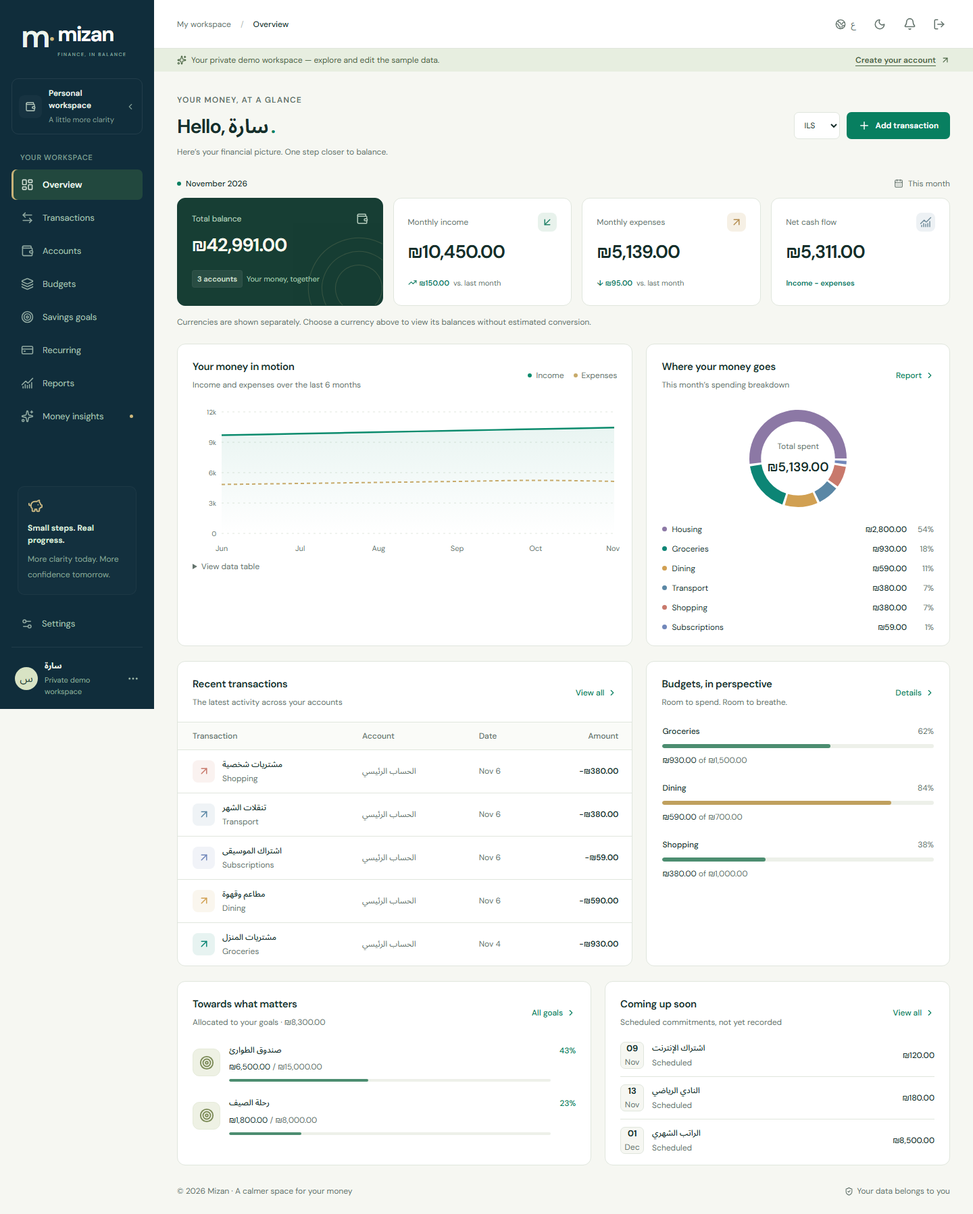
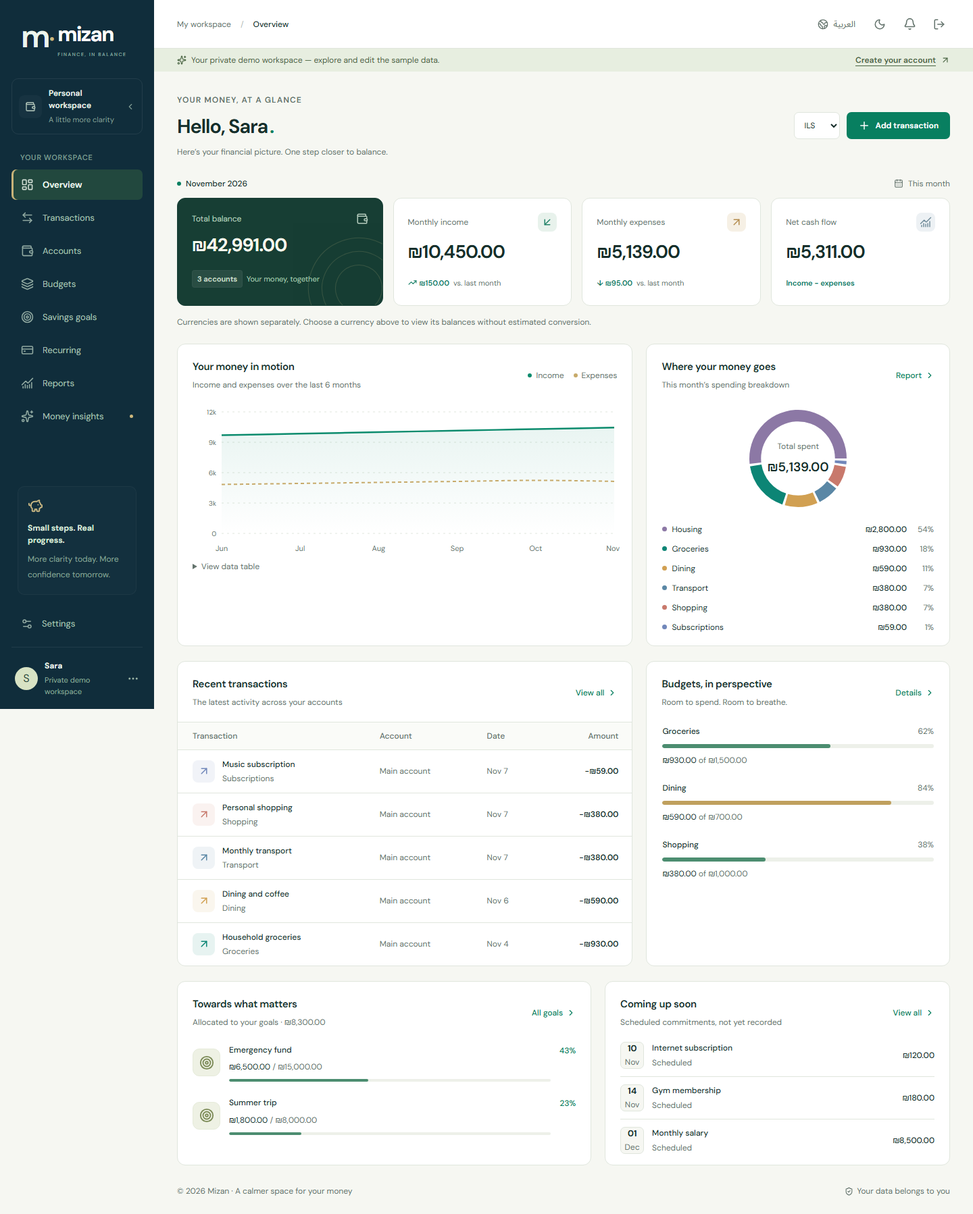
feat: polish English navigation and localize demo workspaces

diff --git a/src/components/finance-app.tsx b/src/components/finance-app.tsx
@@ -6,7 +6,7 @@ import { useRouter } from "next/navigation";
 import { useCallback, useEffect, useMemo, useRef, useState } from "react";
 import { ArrowDownLeft, ArrowLeftRight, ArrowUpRight, Bell, CalendarDays, Check, ChevronLeft, ChevronRight, CircleHelp, Download, Ellipsis, Globe2, LayoutDashboard, LogOut, Menu, Moon, MoreHorizontal, Plus, Search, Settings2, ShieldCheck, Sparkles, Sun, Target, Trash2, TrendingUp, Wallet, X, CreditCard, ChartNoAxesCombined, FileText, Layers3, Pencil, Play, Pause, Upload, CheckCircle2, AlertCircle, PiggyBank } from "lucide-react";
 import type { Currency, Locale, Snapshot, Transaction } from "@/lib/contracts";
-import { usePreferences } from "@/components/providers";
+import { hasStoredLocale, usePreferences } from "@/components/providers";
 import { categoryLabel, dateLabel, major, minor, money, monthlyRows, sum, thisMonth, today } from "./finance/utils";
 import "./finance.css";
 
@@ -59,8 +59,9 @@ export default function FinanceApp({ section = "dashboard" }: { section?: string
   const acceptWorkspace = useCallback((workspace: Snapshot | null) => {
     if (!workspace) { router.replace("/login"); return; }
     if (!workspace.profile.onboarded) { router.replace("/onboarding"); return; }
+    if (!hasStoredLocale()) setLocale(workspace.profile.locale);
     setData(workspace); setCurrency(workspace.profile.currency); setError("");
-  }, [router]);
+  }, [router, setLocale]);
   const refresh = useCallback(() => loadWorkspace().then(acceptWorkspace).catch((err: unknown) => {
     setError(err instanceof Error ? err.message : String(err));
   }), [acceptWorkspace]);
@@ -121,7 +122,7 @@ export default function FinanceApp({ section = "dashboard" }: { section?: string
       <div className="sidebar-bottom"><div className="balance-note"><span className="balance-note-icon"><PiggyBank size={23} /></span><strong>{t("خطوات صغيرة. فرق كبير.", "Small steps. Real progress.")}</strong><p>{t("نظرة أوضح اليوم، وقرارات أهدأ غدًا.", "More clarity today. More confidence tomorrow.")}</p></div><Link data-testid="nav-settings" href="/app/settings" onClick={() => setMenu(false)} className={section === "settings" ? "nav-link active" : "nav-link"}><Settings2 size={18} />{t("الإعدادات", "Settings")}</Link><button className="nav-link sidebar-signout" disabled={busy} onClick={() => void logout()}><LogOut size={18} />{t("تسجيل الخروج", "Sign out")}</button><button className="profile-switch" onClick={() => router.push("/app/settings")}><span className="avatar">{data?.profile.name?.slice(0, 1) || "م"}</span><span><strong>{data?.profile.name || t("حسابي", "My account")}</strong><small>{data?.demo ? t("مساحة تجريبية خاصة", "Private demo workspace") : t("الحساب الشخصي", "Personal account")}</small></span><MoreHorizontal size={18} /></button></div>
     </aside>
     <div className="finance-main">
-      <header className="app-topbar"><div className="breadcrumb"><button className="icon-button mobile-menu" onClick={() => setMenu(true)} aria-label={t("فتح القائمة", "Open menu")}><Menu size={21} /></button><span>{t("مساحتي المالية", "My workspace")}</span><span className="crumb-slash">/</span><strong>{title}</strong></div><div className="topbar-actions"><button className="language-toggle" onClick={() => setLocale(locale === "ar" ? "en" : "ar")} aria-label={t("Switch to English", "التبديل إلى العربية")} data-testid="language-toggle"><Globe2 size={16} /><span>{locale === "ar" ? "EN" : "ع"}</span></button><button className="icon-button" onClick={() => setTheme(theme === "light" ? "dark" : "light")} aria-label={t("تغيير المظهر", "Toggle theme")} data-testid="theme-toggle">{theme === "light" ? <Moon size={18} /> : <Sun size={18} />}</button><Link className="notification-button icon-button" href="/app/recurring" aria-label={t("الالتزامات القادمة", "Upcoming commitments")}><Bell size={19} />{data?.recurring.some((r) => r.active && r.nextDate <= today(ctx?.data.profile.timezone)) && <i />}</Link><button className="icon-button" onClick={() => void logout()} aria-label={t("تسجيل الخروج", "Sign out")}><LogOut size={18} /></button></div></header>
+      <header className="app-topbar"><div className="breadcrumb"><button className="icon-button mobile-menu" onClick={() => setMenu(true)} aria-label={t("فتح القائمة", "Open menu")}><Menu size={21} /></button><span>{t("مساحتي المالية", "My workspace")}</span><span className="crumb-slash">/</span><strong>{title}</strong></div><div className="topbar-actions"><button className="language-toggle" onClick={() => setLocale(locale === "ar" ? "en" : "ar")} aria-label={t("Switch to English", "التبديل إلى العربية")} data-testid="language-toggle"><Globe2 size={16} /><span>{locale === "ar" ? "English" : "العربية"}</span></button><button className="icon-button" onClick={() => setTheme(theme === "light" ? "dark" : "light")} aria-label={t("تغيير المظهر", "Toggle theme")} data-testid="theme-toggle">{theme === "light" ? <Moon size={18} /> : <Sun size={18} />}</button><Link className="notification-button icon-button" href="/app/recurring" aria-label={t("الالتزامات القادمة", "Upcoming commitments")}><Bell size={19} />{data?.recurring.some((r) => r.active && r.nextDate <= today(ctx?.data.profile.timezone)) && <i />}</Link><button className="icon-button" onClick={() => void logout()} aria-label={t("تسجيل الخروج", "Sign out")}><LogOut size={18} /></button></div></header>
       {data?.demo && <div className="demo-banner"><span><Sparkles size={14} />{t("أنت في مساحة تجريبية خاصة — بيانات توضيحية يمكنك تعديلها.", "Your private demo workspace — explore and edit the sample data.")}</span><Link href="/register">{t("أنشئ حسابك", "Create your account")} <ArrowUpRight size={14} /></Link></div>}
       <main id="main-content" className="app-content">
         {error && <div className="feedback error" role="alert"><AlertCircle size={18} /><span>{error}</span><button className="text-button" onClick={() => void refresh()}>{t("أعد المحاولة", "Try again")}</button></div>}
@@ -208,7 +209,7 @@ function Transactions({ ctx }: { ctx: Ctx }) {
   const pages = Math.max(1, Math.ceil(rows.length / 10)); const currentPage = Math.min(page, pages);
   function filter(setter: (v: string) => void, value: string) { setter(value); setPage(1); }
   return <><div className="section-toolbar"><div className="segmented"><button className={!kind ? "selected" : ""} onClick={() => filter(setKind, "")}>{ctx.t("كل المعاملات", "All transactions")}</button><button className={kind === "income" ? "selected" : ""} onClick={() => filter(setKind, "income")}>{ctx.t("الدخل", "Income")}</button><button className={kind === "expense" ? "selected" : ""} onClick={() => filter(setKind, "expense")}>{ctx.t("المصروفات", "Expenses")}</button></div><div className="toolbar-buttons"><button className="btn btn-secondary" onClick={() => setImportOpen(!importOpen)}><Upload size={16} />{ctx.t("استيراد CSV", "Import CSV")}</button><a className="btn btn-secondary" href="/api/export?format=csv"><Download size={16} />{ctx.t("تصدير CSV", "Export CSV")}</a></div></div>{importOpen && <ImportPanel data={ctx.data} locale={ctx.locale} t={ctx.t} mutate={ctx.mutate} close={() => setImportOpen(false)} />}
-  <section className="panel"><div className="transaction-filters"><label className="search-field"><Search size={17} /><input aria-label={ctx.t("البحث في المعاملات", "Search transactions")} placeholder={ctx.t("ابحث عن معاملة…", "Search transactions…")} value={query} onChange={(e) => filter(setQuery, e.target.value)} /></label><select aria-label={ctx.t("تصفية الحساب", "Filter account")} value={account} onChange={(e) => filter(setAccount, e.target.value)}><option value="">{ctx.t("جميع الحسابات", "All accounts")}</option>{accountOptions(ctx.data).map((o) => <option key={o.value} value={o.value}>{o.label}</option>)}</select><select aria-label={ctx.t("تصفية التصنيف", "Filter category")} value={category} onChange={(e) => filter(setCategory, e.target.value)}><option value="">{ctx.t("كل التصنيفات", "All categories")}</option>{categoryOptions(ctx.data, ctx.locale).map((o) => <option key={o.value} value={o.value}>{o.label}</option>)}</select><select aria-label={ctx.t("ترتيب", "Sort")} value={sort} onChange={(e) => filter(setSort, e.target.value)}><option value="date-desc">{ctx.t("الأحدث أولًا", "Newest first")}</option><option value="date-asc">{ctx.t("الأقدم أولًا", "Oldest first")}</option><option value="amount-desc">{ctx.t("الأعلى مبلغًا", "Largest amount")}</option></select><label className="inline-date">{ctx.t("من", "From")}<input type="date" value={from} onChange={(e) => filter(setFrom, e.target.value)} /></label><label className="inline-date">{ctx.t("إلى", "To")}<input type="date" value={to} onChange={(e) => filter(setTo, e.target.value)} /></label></div>{rows.length ? <TransactionTable ctx={ctx} rows={rows.slice((currentPage - 1) * 10, currentPage * 10)} /> : <Empty ctx={ctx} text={ctx.t("لا توجد معاملات مطابقة", "No matching transactions")} />}<div className="pagination"><span>{rows.length} {ctx.t("معاملة", "transactions")}</span><div><button className="icon-button" disabled={currentPage === 1} onClick={() => setPage(currentPage - 1)} aria-label={ctx.t("الصفحة السابقة", "Previous page")}><ChevronRight size={17} /></button><span>{currentPage} / {pages}</span><button className="icon-button" disabled={currentPage === pages} onClick={() => setPage(currentPage + 1)} aria-label={ctx.t("الصفحة التالية", "Next page")}><ChevronLeft size={17} /></button></div></div></section></>;
+  <section className="panel"><div className="transaction-filters"><label className="search-field"><Search size={17} /><input aria-label={ctx.t("البحث في المعاملات", "Search transactions")} placeholder={ctx.t("ابحث عن معاملة…", "Search transactions…")} value={query} onChange={(e) => filter(setQuery, e.target.value)} /></label><select aria-label={ctx.t("تصفية الحساب", "Filter account")} value={account} onChange={(e) => filter(setAccount, e.target.value)}><option value="">{ctx.t("جميع الحسابات", "All accounts")}</option>{accountOptions(ctx.data).map((o) => <option key={o.value} value={o.value}>{o.label}</option>)}</select><select aria-label={ctx.t("تصفية التصنيف", "Filter category")} value={category} onChange={(e) => filter(setCategory, e.target.value)}><option value="">{ctx.t("كل التصنيفات", "All categories")}</option>{categoryOptions(ctx.data, ctx.locale).map((o) => <option key={o.value} value={o.value}>{o.label}</option>)}</select><select aria-label={ctx.t("ترتيب", "Sort")} value={sort} onChange={(e) => filter(setSort, e.target.value)}><option value="date-desc">{ctx.t("الأحدث أولًا", "Newest first")}</option><option value="date-asc">{ctx.t("الأقدم أولًا", "Oldest first")}</option><option value="amount-desc">{ctx.t("الأعلى مبلغًا", "Largest amount")}</option></select><label className="inline-date">{ctx.t("من", "From")}<input type="date" value={from} onChange={(e) => filter(setFrom, e.target.value)} /></label><label className="inline-date">{ctx.t("إلى", "To")}<input type="date" value={to} onChange={(e) => filter(setTo, e.target.value)} /></label></div>{rows.length ? <TransactionTable ctx={ctx} rows={rows.slice((currentPage - 1) * 10, currentPage * 10)} /> : <Empty ctx={ctx} text={ctx.t("لا توجد معاملات مطابقة", "No matching transactions")} />}<div className="pagination"><span>{rows.length} {ctx.t("معاملة", "transactions")}</span><div><button className="icon-button" disabled={currentPage === 1} onClick={() => setPage(currentPage - 1)} aria-label={ctx.t("الصفحة السابقة", "Previous page")}>{ctx.locale === "ar" ? <ChevronRight size={17} /> : <ChevronLeft size={17} />}</button><span>{currentPage} / {pages}</span><button className="icon-button" disabled={currentPage === pages} onClick={() => setPage(currentPage + 1)} aria-label={ctx.t("الصفحة التالية", "Next page")}>{ctx.locale === "ar" ? <ChevronLeft size={17} /> : <ChevronRight size={17} />}</button></div></div></section></>;
 }
 
 function Accounts({ ctx }: { ctx: Ctx }) {

diff --git a/src/server/demo.ts b/src/server/demo.ts
@@ -5,11 +5,15 @@ import * as s from "./schema";
 import { ensureProfile, deleteUserData } from "./finance-service";
 import { hashToken } from "./http";
 import { localDate } from "../lib/finance";
+import type { Locale } from "../lib/contracts";
 
 const iso = (date: Date) => date.toISOString().slice(0, 10);
-export async function seedDemoData(userId: string) {
-  await ensureProfile(userId);
+export async function seedDemoData(userId: string, locale: Locale = "ar") {
   const db = await getDb();
+  const [owner] = await db.select({ demo: s.user.demo }).from(s.user).where(eq(s.user.id, userId));
+  if (!owner?.demo) throw new Error("Sample data can only be created for a demo user.");
+  await ensureProfile(userId);
+  const text = (arabic: string, english: string) => locale === "en" ? english : arabic;
   await db.transaction(async tx => {
     await tx.select().from(s.user).where(eq(s.user.id, userId)).for("update");
     if ((await tx.select().from(s.financialAccounts).where(eq(s.financialAccounts.userId, userId))).length) return;
@@ -18,11 +22,12 @@ export async function seedDemoData(userId: string) {
     const year = now.getUTCFullYear(), month = now.getUTCMonth();
     const thisMonth = iso(now).slice(0, 7);
     const category = (slug: string) => `${userId}:${slug}`;
-    await tx.update(s.profiles).set({ onboarded: true }).where(eq(s.profiles.userId, userId));
+    await tx.update(s.user).set({ name: text("سارة", "Sara") }).where(eq(s.user.id, userId));
+    await tx.update(s.profiles).set({ onboarded: true, locale }).where(eq(s.profiles.userId, userId));
     await tx.insert(s.financialAccounts).values([
-      { id: bank, userId, name: "الحساب الرئيسي", type: "bank", currency: "ILS", openingBalance: 420000 },
-      { id: savings, userId, name: "حساب الادخار", type: "bank", currency: "ILS", openingBalance: 800000 },
-      { id: cash, userId, name: "محفظتي", type: "cash", currency: "ILS", openingBalance: 65000 },
+      { id: bank, userId, name: text("الحساب الرئيسي", "Main account"), type: "bank", currency: "ILS", openingBalance: 420000 },
+      { id: savings, userId, name: text("حساب الادخار", "Savings account"), type: "bank", currency: "ILS", openingBalance: 800000 },
+      { id: cash, userId, name: text("محفظتي", "My wallet"), type: "cash", currency: "ILS", openingBalance: 65000 },
       { id: usd, userId, name: "USD wallet", type: "wallet", currency: "USD", openingBalance: 125000 },
     ]);
     const transactions: (typeof s.transactions.$inferInsert)[] = [];
@@ -31,18 +36,18 @@ export async function seedDemoData(userId: string) {
       transactions.push({ id: randomUUID(), userId, accountId: bank, categoryId: category(slug), kind, amount, currency: "ILS", date, note });
     };
     for (let offset = -5; offset <= 0; offset++) {
-      add(offset, 1, "income", 850000, "salary", "الراتب الشهري");
-      add(offset, 3, "income", 120000 + (offset + 5) * 15000, "freelance", "مشروع تصميم");
-      add(offset, 2, "expense", 280000, "housing", "إيجار المنزل");
-      add(offset, 4, "expense", 78000 + (offset + 5) * 3000, "groceries", "مشتريات المنزل");
-      add(offset, 6, "expense", 34000 + (offset + 5) * 5000, "dining", "مطاعم وقهوة");
-      add(offset, 9, "expense", 38000, "transport", "تنقلات الشهر");
-      add(offset, 12, "expense", 5900, "subscriptions", "اشتراك الموسيقى");
-      add(offset, 17, "expense", 28000 + (offset + 5) * 2000, "shopping", "مشتريات شخصية");
-      if (offset < 0) add(offset, 21, "expense", 19500, "health", "عناية وصحة");
+      add(offset, 1, "income", 850000, "salary", text("الراتب الشهري", "Monthly salary"));
+      add(offset, 3, "income", 120000 + (offset + 5) * 15000, "freelance", text("مشروع تصميم", "Design project"));
+      add(offset, 2, "expense", 280000, "housing", text("إيجار المنزل", "Home rent"));
+      add(offset, 4, "expense", 78000 + (offset + 5) * 3000, "groceries", text("مشتريات المنزل", "Household groceries"));
+      add(offset, 6, "expense", 34000 + (offset + 5) * 5000, "dining", text("مطاعم وقهوة", "Dining and coffee"));
+      add(offset, 9, "expense", 38000, "transport", text("تنقلات الشهر", "Monthly transport"));
+      add(offset, 12, "expense", 5900, "subscriptions", text("اشتراك الموسيقى", "Music subscription"));
+      add(offset, 17, "expense", 28000 + (offset + 5) * 2000, "shopping", text("مشتريات شخصية", "Personal shopping"));
+      if (offset < 0) add(offset, 21, "expense", 19500, "health", text("عناية وصحة", "Health and care"));
     }
     await tx.insert(s.transactions).values(transactions);
-    await tx.insert(s.transfers).values({ id: randomUUID(), userId, fromAccountId: bank, toAccountId: savings, amount: 100000, date: iso(now), note: "إضافة إلى حساب الادخار" });
+    await tx.insert(s.transfers).values({ id: randomUUID(), userId, fromAccountId: bank, toAccountId: savings, amount: 100000, date: iso(now), note: text("إضافة إلى حساب الادخار", "Transfer to savings") });
     await tx.insert(s.budgets).values([
       { id: randomUUID(), userId, categoryId: category("groceries"), month: thisMonth, amount: 150000, currency: "ILS" },
       { id: randomUUID(), userId, categoryId: category("dining"), month: thisMonth, amount: 70000, currency: "ILS" },
@@ -51,8 +56,8 @@ export async function seedDemoData(userId: string) {
     ]);
     const emergency = randomUUID(), travel = randomUUID();
     await tx.insert(s.goals).values([
-      { id: emergency, userId, name: "صندوق الطوارئ", target: 1500000, currency: "ILS", deadline: iso(new Date(Date.UTC(year + 1, month, 1))) },
-      { id: travel, userId, name: "رحلة الصيف", target: 800000, currency: "ILS", deadline: iso(new Date(Date.UTC(year + 1, 5, 1))) },
+      { id: emergency, userId, name: text("صندوق الطوارئ", "Emergency fund"), target: 1500000, currency: "ILS", deadline: iso(new Date(Date.UTC(year + 1, month, 1))) },
+      { id: travel, userId, name: text("رحلة الصيف", "Summer trip"), target: 800000, currency: "ILS", deadline: iso(new Date(Date.UTC(year + 1, 5, 1))) },
     ]);
     await tx.insert(s.contributions).values([
       { id: randomUUID(), userId, goalId: emergency, accountId: savings, amount: 650000, date: iso(now) },
@@ -60,20 +65,20 @@ export async function seedDemoData(userId: string) {
     ]);
     const next = (days: number) => iso(new Date(now.getTime() + days * 86400000));
     await tx.insert(s.recurring).values([
-      { id: randomUUID(), userId, name: "اشتراك الإنترنت", accountId: bank, categoryId: category("subscriptions"), kind: "expense", amount: 12000, currency: "ILS", frequency: "monthly", nextDate: next(3), active: true },
-      { id: randomUUID(), userId, name: "النادي الرياضي", accountId: bank, categoryId: category("health"), kind: "expense", amount: 18000, currency: "ILS", frequency: "monthly", nextDate: next(7), active: true },
-      { id: randomUUID(), userId, name: "الراتب الشهري", accountId: bank, categoryId: category("salary"), kind: "income", amount: 850000, currency: "ILS", frequency: "monthly", nextDate: iso(new Date(Date.UTC(year, month + 1, 1))), active: true },
+      { id: randomUUID(), userId, name: text("اشتراك الإنترنت", "Internet subscription"), accountId: bank, categoryId: category("subscriptions"), kind: "expense", amount: 12000, currency: "ILS", frequency: "monthly", nextDate: next(3), active: true },
+      { id: randomUUID(), userId, name: text("النادي الرياضي", "Gym membership"), accountId: bank, categoryId: category("health"), kind: "expense", amount: 18000, currency: "ILS", frequency: "monthly", nextDate: next(7), active: true },
+      { id: randomUUID(), userId, name: text("الراتب الشهري", "Monthly salary"), accountId: bank, categoryId: category("salary"), kind: "income", amount: 850000, currency: "ILS", frequency: "monthly", nextDate: iso(new Date(Date.UTC(year, month + 1, 1))), active: true },
     ]);
-    await tx.insert(s.notes).values({ id: randomUUID(), userId, title: "خطتي لهذا الشهر", body: "تخصيص مبلغ ثابت للطوارئ، ومراجعة الاشتراكات قبل موعد تجديدها. هذه ملاحظة تجريبية قابلة للحذف." });
+    await tx.insert(s.notes).values({ id: randomUUID(), userId, title: text("خطتي لهذا الشهر", "My plan this month"), body: text("تخصيص مبلغ ثابت للطوارئ، ومراجعة الاشتراكات قبل موعد تجديدها. هذه ملاحظة تجريبية قابلة للحذف.", "Set aside a fixed amount for emergencies and review subscriptions before they renew. You can delete this sample note.") });
   });
 }
 
-export async function createDemo(): Promise<{ token: string; userId: string }> {
+export async function createDemo(locale: Locale = "ar"): Promise<{ token: string; userId: string }> {
   const db = await getDb();
   const userId = randomUUID(), token = randomBytes(32).toString("base64url");
-  await db.insert(s.user).values({ id: userId, name: "سارة", email: `demo-${userId}@example.invalid`, demo: true, emailVerified: false });
+  await db.insert(s.user).values({ id: userId, name: locale === "en" ? "Sara" : "سارة", email: `demo-${userId}@example.invalid`, demo: true, emailVerified: false });
   try {
-    await seedDemoData(userId);
+    await seedDemoData(userId, locale);
     await db.insert(s.demoSessions).values({ tokenHash: hashToken(token), userId, expiresAt: new Date(Date.now() + 86400000) });
   } catch (error) { await deleteUserData(userId); throw error; }
   return { token, userId };

diff --git a/src/components/landing.tsx b/src/components/landing.tsx
@@ -8,7 +8,7 @@ export function Landing() {
   const { t, locale, setLocale, theme, setTheme } = usePreferences();
   const Arrow = locale === "ar" ? ArrowUpLeft : ArrowUpRight;
   return <div className="landing"><a href="#content" className="skip-link">{t("تخطي إلى المحتوى", "Skip to content")}</a>
-    <header className="site-header wrap"><Brand /><nav aria-label={t("التنقل الرئيسي", "Main navigation")}><a href="#features">{t("لماذا ميزان؟", "Why Mizan?")}</a><a href="#how">{t("كيف يعمل", "How it works")}</a><a href="#faq">{t("أسئلة شائعة", "FAQ")}</a></nav><div className="site-actions"><button className="icon-button" aria-label={t("Switch to English", "التبديل إلى العربية")} onClick={() => setLocale(locale === "ar" ? "en" : "ar")}><Globe2 size={18} /><span>{locale === "ar" ? "EN" : "ع"}</span></button><button className="icon-button" aria-label={t("تغيير المظهر", "Toggle theme")} onClick={() => setTheme(theme === "light" ? "dark" : "light")}>{theme === "light" ? <Moon size={17} /> : <Sun size={17} />}</button><Link className="login-link" href="/login">{t("تسجيل الدخول", "Sign in")}</Link><Link className="btn btn-primary small" href="/register">{t("ابدأ الآن", "Get started")}<Arrow size={16} /></Link></div></header>
+    <header className="site-header wrap"><Brand /><nav aria-label={t("التنقل الرئيسي", "Main navigation")}><a href="#features">{t("لماذا ميزان؟", "Why Mizan?")}</a><a href="#how">{t("كيف يعمل", "How it works")}</a><a href="#faq">{t("أسئلة شائعة", "FAQ")}</a></nav><div className="site-actions"><button className="icon-button" aria-label={t("Switch to English", "التبديل إلى العربية")} onClick={() => setLocale(locale === "ar" ? "en" : "ar")}><Globe2 size={18} /><span>{locale === "ar" ? "English" : "العربية"}</span></button><button className="icon-button" aria-label={t("تغيير المظهر", "Toggle theme")} onClick={() => setTheme(theme === "light" ? "dark" : "light")}>{theme === "light" ? <Moon size={17} /> : <Sun size={17} />}</button><Link className="login-link" href="/login">{t("تسجيل الدخول", "Sign in")}</Link><Link className="btn btn-primary small" href="/register">{t("ابدأ الآن", "Get started")}<Arrow size={16} /></Link></div></header>
     <main id="content"><section className="hero wrap"><div className="hero-copy"><div className="hero-badge"><span />{t("مساحة أهدأ لأموالك", "A CALMER SPACE FOR YOUR MONEY")}</div><h1>{t("أموالك أوضح.", "Money made clear.")}<br /><span>{t("حياتك أكثر توازنًا.", "Life in balance.")}</span></h1><p>{t("من أول مصروف إلى أكبر أحلامك. اجمع حساباتك، افهم إنفاقك، وخطّط للغد — كل ذلك في مكان واحد.", "From everyday spending to your biggest dreams. Bring your accounts together, understand your habits, and make room for tomorrow.")}</p><div className="hero-actions"><Link className="btn btn-primary" href="/register">{t("ابدأ الآن", "Get started")}<Arrow size={18} /></Link><Link className="btn btn-secondary" href="/demo"><Play size={15} fill="currentColor" />{t("جرّب المنصة", "Explore the demo")}</Link></div><div className="hero-assurance"><span><Check size={14} />{t("بالعربية والإنجليزية", "Arabic & English")}</span><span><Check size={14} />{t("بياناتك تحت سيطرتك", "Your data, your control")}</span><span><Check size={14} />{t("بلا ربط بنكي", "No bank connection needed")}</span></div></div><div className="hero-art" aria-hidden="true"><div className="orbital orbital-one" /><div className="orbital orbital-two" /><div className="art-topline"><span>01 / {t("صورة أوضح", "A CLEARER PICTURE")}</span><Sparkles size={19} /></div><div className="balance-object"><span className="balance-thread" /><div className="balance-beam"><i /><i /></div><div className="balance-stem" /><div className="balance-bowl bowl-a"><span>+</span></div><div className="balance-bowl bowl-b"><span>−</span></div><div className="balance-base" /></div><div className="art-bottom"><span>{t("كل خطوة محسوبة.", "EVERY STEP, INTENTIONAL.")}</span><span>m<span>·</span></span></div><div className="floating-label"><span className="floating-icon"><Target size={18} /></span><div><strong>{t("خطوة أقرب إلى هدفك", "A little closer to your goal")}</strong><small>{t("التوازن يبدأ بالوضوح", "Balance begins with clarity")}</small></div><ArrowUpRight size={16} /></div></div></section>
       <section className="preview-section wrap" id="preview"><div className="section-topline"><span className="eyebrow">{t("الصورة الكاملة، بنظرة واحدة", "THE WHOLE PICTURE. ONE CLEAR VIEW.")}</span><Link href="/demo">{t("استكشف لوحة التحكم", "Explore your dashboard")}<Arrow size={16} /></Link></div><DashboardPreview /><div className="preview-caption"><span className="demo-dot" />{t("معاينة ببيانات تجريبية · جرّب جميع الأدوات في مساحة منفصلة", "Sample data preview · Explore all tools in an isolated workspace")}</div></section>
       <section className="features-section wrap" id="features"><div className="section-intro"><span className="eyebrow">{t("أقل تشتّتًا، أكثر وضوحًا", "LESS GUESSWORK. MORE CLARITY.")}</span><h2>{t("ليس مجرد أرقام.", "More than numbers.")}<br /><span>{t("مساحة لاتخاذ قرارات أفضل.", "Space to make better decisions.")}</span></h2><p>{t("أدوات بسيطة ومترابطة، تجيب عن أسئلتك المالية اليومية.", "Thoughtful tools, working together to answer your everyday money questions.")}</p></div><div className="feature-grid">{[

diff --git a/src/components/providers.tsx b/src/components/providers.tsx
@@ -1,16 +1,22 @@
 "use client";
 import { createContext, useContext, useEffect, useSyncExternalStore, type ReactNode } from "react";
+import { usePathname } from "next/navigation";
 import type { Locale } from "@/lib/contracts";
 type Theme = "light" | "dark";
 const listeners = new Set<() => void>();
 const subscribe = (fn: () => void) => { listeners.add(fn); window.addEventListener("storage", fn); return () => { listeners.delete(fn); window.removeEventListener("storage", fn); }; };
 function getPreference(key: string, fallback: string) { try { return localStorage.getItem(key) || fallback; } catch { return fallback; } }
 function save(key: string, value: string) { try { localStorage.setItem(key, value); } catch { /* Private browsing can disable storage. */ } listeners.forEach((fn) => fn()); }
+export function getStoredLocale(): Locale { return getPreference("mizan-locale", "ar") === "en" ? "en" : "ar"; }
+export function hasStoredLocale(): boolean { return ["ar", "en"].includes(getPreference("mizan-locale", "")); }
+const setLocale = (value: Locale) => save("mizan-locale", value);
+const setTheme = (value: Theme) => save("mizan-theme", value);
 const Context = createContext<{ locale: Locale; theme: Theme; setLocale: (v: Locale) => void; setTheme: (v: Theme) => void; t: (ar: string, en: string) => string } | null>(null);
 export function Providers({ children }: { children: ReactNode }) {
-  const locale = useSyncExternalStore(subscribe, () => getPreference("mizan-locale", "ar") === "en" ? "en" : "ar", () => "ar") as Locale;
+  const pathname = usePathname();
+  const locale = useSyncExternalStore(subscribe, getStoredLocale, () => "ar") as Locale;
   const theme = useSyncExternalStore(subscribe, () => getPreference("mizan-theme", "light") === "dark" ? "dark" : "light", () => "light") as Theme;
-  useEffect(() => { document.documentElement.lang = locale; document.documentElement.dir = locale === "ar" ? "rtl" : "ltr"; document.documentElement.dataset.theme = theme; }, [locale, theme]);
-  return <Context.Provider value={{ locale, theme, setLocale: (v) => save("mizan-locale", v), setTheme: (v) => save("mizan-theme", v), t: (ar, en) => locale === "ar" ? ar : en }}>{children}</Context.Provider>;
+  useEffect(() => { document.documentElement.lang = locale; document.documentElement.dir = locale === "ar" ? "rtl" : "ltr"; document.documentElement.dataset.theme = theme; document.title = locale === "ar" ? "Mizan Finance | ميزان — أموالك، في توازن" : "Mizan Finance — Money made clear. Life in balance."; }, [locale, theme, pathname]);
+  return <Context.Provider value={{ locale, theme, setLocale, setTheme, t: (ar, en) => locale === "ar" ? ar : en }}>{children}</Context.Provider>;
 }
 export function usePreferences() { const value = useContext(Context); if (!value) throw new Error("Preferences provider missing"); return value; }

diff --git a/tests/e2e/interface.spec.ts b/tests/e2e/interface.spec.ts
@@ -44,6 +44,12 @@ test("a new user registers, completes onboarding, records money and signs in aga
   expect(data.accounts[0].balance).toBe(670_000);
   expect(data.transactions.some(transaction => transaction.note === "Browser groceries")).toBe(true);
 
+  // A fresh browser preference falls back to the saved account language after login.
+  await page.evaluate(() => localStorage.removeItem("mizan-locale"));
+  await page.reload();
+  await expect(page.locator("html")).toHaveAttribute("lang", "en");
+  await expect(page.locator(".finance-app")).toHaveAttribute("dir", "ltr");
+
   await page.getByTestId("nav-settings").click();
   await page.getByPlaceholder("DELETE", { exact: true }).fill("DELETE");
   await page.getByRole("button", { name: "Permanently delete my account", exact: true }).click();
@@ -54,11 +60,16 @@ test("a new user registers, completes onboarding, records money and signs in aga
 test("demo UI creates an expense, budget and goal, persists changes, and exports a report", async ({ page }) => {
   const runtimeErrors: string[] = [];
   page.on("pageerror", error => runtimeErrors.push(error.message));
-  await page.goto("/demo");
+  await page.goto("/");
+  await page.getByRole("button", { name: "Switch to English", exact: true }).click();
+  await expect(page.getByRole("heading", { level: 1 })).toContainText("Money made clear.");
+  await page.getByRole("link", { name: "Explore the demo", exact: true }).click();
   await expect(page.getByTestId("add-transaction")).toBeVisible({ timeout: 60_000 });
-  await expect(page.locator(".finance-app")).toHaveAttribute("dir", "rtl");
-  await page.getByTestId("language-toggle").click();
   await expect(page.locator(".finance-app")).toHaveAttribute("dir", "ltr");
+  await expect(page.getByRole("heading", { level: 1 })).toContainText("Hello, Sara");
+  const demo = await (await page.request.get("/api/finance")).json() as Snapshot;
+  expect(demo.profile.locale).toBe("en");
+  expect(demo.accounts.some(account => account.name === "Main account")).toBe(true);
 
   await page.getByTestId("add-transaction").click();
   const dialog = page.getByRole("dialog");

diff --git a/src/app/demo/page.tsx b/src/app/demo/page.tsx
@@ -2,9 +2,9 @@
 import Link from "next/link";
 import { useEffect, useRef, useState } from "react";
 import { useRouter } from "next/navigation";
-import { usePreferences } from "@/components/providers";
+import { getStoredLocale, usePreferences } from "@/components/providers";
 export default function DemoPage() {
   const router = useRouter(); const { t } = usePreferences(); const started = useRef(false); const [error, setError] = useState("");
-  useEffect(() => { if (started.current) return; started.current = true; fetch("/api/demo", { method: "POST", headers: { "Content-Type": "application/json" }, body: "{}" }).then(async (r) => { const data = await r.json(); if (!r.ok) throw new Error(data.error || "Unable to create demo"); router.replace("/app"); }).catch((e: Error) => setError(e.message)); }, [router]);
+  useEffect(() => { if (started.current) return; started.current = true; fetch("/api/demo", { method: "POST", headers: { "Content-Type": "application/json" }, body: JSON.stringify({ locale: getStoredLocale() }) }).then(async (r) => { const data = await r.json(); if (!r.ok) throw new Error(data.error || "Unable to create demo"); router.replace("/app"); }).catch((e: Error) => setError(e.message)); }, [router]);
   return <main className="demo-start" style={{ minHeight: "100dvh", display: "grid", placeContent: "center", gap: "1rem", textAlign: "center", padding: "2rem" }}><span style={{ fontSize: "3rem", color: "var(--green)", fontWeight: 700 }}>m·</span><h1>{t("مساحة لتجربة التوازن", "A little space to find your balance")}</h1><p role={error ? "alert" : "status"}>{error || t("نجهّز مساحة تجريبية خاصة ببيانات توضيحية…", "Preparing your private workspace with sample data…")}</p>{error && <Link className="btn btn-secondary" href="/">{t("العودة للرئيسية", "Back to home")}</Link>}</main>;
 }

diff --git a/src/app/api/demo/route.ts b/src/app/api/demo/route.ts
@@ -1,6 +1,7 @@
 import { createDemo } from "@/server/demo";
-import { checkOrigin, demoCookie, errorResponse, noStore } from "@/server/http";
+import { checkOrigin, demoCookie, errorResponse, noStore, readJson } from "@/server/http";
 import { ServiceError } from "@/server/validation";
+import { z } from "zod";
 export const runtime = "nodejs";
 export const dynamic = "force-dynamic";
 // In-process creation limiter; production deployments should also enforce an ingress rate limit.
@@ -8,13 +9,14 @@ const requests = new Map<string, { started: number; count: number }>();
 export async function POST(request: Request) {
   try {
     checkOrigin(request);
+    const { locale } = z.object({ locale: z.enum(["ar", "en"]).default("ar") }).parse(await readJson(request, 1024));
     const key = request.headers.get("x-forwarded-for")?.split(",")[0] || "local";
     const current = requests.get(key);
     const record = current && Date.now() - current.started < 60000 ? current : { started: Date.now(), count: 0 };
     if (++record.count > 10) throw new ServiceError("Please wait a minute before starting another demo.", 429);
     if (requests.size > 1000) requests.clear();
     requests.set(key, record);
-    const demo = await createDemo();
+    const demo = await createDemo(locale);
     return Response.json({ ok: true }, { headers: { ...noStore, "Set-Cookie": demoCookie(demo.token) } });
   } catch (error) { return errorResponse(error); }
 }

diff --git a/tests/e2e/api-flow.spec.ts b/tests/e2e/api-flow.spec.ts
@@ -110,10 +110,13 @@ test("each demo visitor has isolated persisted data", async () => {
   const a = await request.newContext({ baseURL: origin, extraHTTPHeaders: { Origin: origin } });
   const b = await request.newContext({ baseURL: origin, extraHTTPHeaders: { Origin: origin } });
   expect((await a.post("/api/demo", { data: {} })).ok()).toBe(true);
-  expect((await b.post("/api/demo", { data: {} })).ok()).toBe(true);
+  expect((await b.post("/api/demo", { data: { locale: "en" } })).ok()).toBe(true);
   const first = await snapshot(a);
   const second = await snapshot(b);
   expect(first.demo).toBe(true);
+  expect(first.profile.locale).toBe("ar");
+  expect(second.profile.locale).toBe("en");
+  expect(second.profile.name).toBe("Sara");
   expect(first.profile.id).not.toBe(second.profile.id);
   expect(first.accounts[0].id).not.toBe(second.accounts[0].id);
   await change(a, "note.create", { title: "Private demo note", body: "Only visitor A sees this." });

diff --git a/src/components/brand.tsx b/src/components/brand.tsx
@@ -1,2 +1,7 @@
+"use client";
 import Link from "next/link";
-export function Brand({ light = false }: { light?: boolean }) { return <Link href="/" className={`brand ${light ? "brand-light" : ""}`} aria-label="Mizan Finance — الرئيسية"><span className="brand-mark">m<span>·</span></span><span className="brand-word">ميزان<small>MIZAN FINANCE</small></span></Link>; }
+import { usePreferences } from "./providers";
+export function Brand({ light = false }: { light?: boolean }) {
+  const { t } = usePreferences();
+  return <Link href="/" className={`brand ${light ? "brand-light" : ""}`} aria-label={t("ميزان — الرئيسية", "Mizan Finance — Home")}><span className="brand-mark">m<span>·</span></span><span className="brand-word">{t("ميزان", "mizan")}<small>MIZAN FINANCE</small></span></Link>;
+}

diff --git a/README.md b/README.md
@@ -2,6 +2,8 @@
 
 A bilingual personal finance application built with Next.js, TypeScript, Tailwind CSS, Drizzle ORM and Better Auth. Arabic/RTL is the default, with English/LTR, light/dark themes and ILS/USD/EUR support.
 
+Use the **English / العربية** button in the page header to switch languages. The preference persists across navigation and reloads; a new browser uses your saved account language after signing in. Select English before opening the demo to create English sample accounts, goals and notes. User-entered financial content is never automatically translated.
+
 Financial records are persisted on the server. `localStorage` is used only for presentation preferences. This application does not connect to banks, execute payments or provide investment advice.
 
 ## Run locally
@@ -128,7 +130,7 @@ These are captures of the running application with isolated sample data, not des
 
 | Landing | Dashboard | Phone |
 | --- | --- | --- |
-| [Desktop](docs/screenshots/landing-desktop.png) | [Arabic](docs/screenshots/dashboard-desktop.png) · [English](docs/screenshots/dashboard-english.png) · [Dark](docs/screenshots/dashboard-dark.png) | [Dashboard](docs/screenshots/dashboard-mobile.png) · [Landing](docs/screenshots/landing-mobile.png) |
+| [Arabic](docs/screenshots/landing-desktop.png) · [English](docs/screenshots/landing-english-desktop.png) | [Arabic](docs/screenshots/dashboard-desktop.png) · [English](docs/screenshots/dashboard-english.png) · [Dark](docs/screenshots/dashboard-dark.png) | [Arabic dashboard](docs/screenshots/dashboard-mobile.png) · [English dashboard](docs/screenshots/dashboard-english-mobile.png) · [English landing](docs/screenshots/landing-english-mobile.png) |
 
 The GitHub Actions workflow runs lint, type checking, money/calendar tests, PGlite integration tests, a production build and Playwright workflows. A separate job runs the integration suite against PostgreSQL 17. Browser failures upload diagnostic artifacts for seven days.
 
